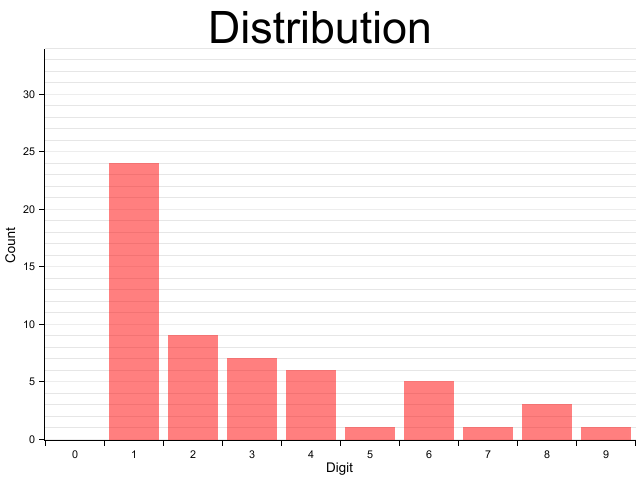
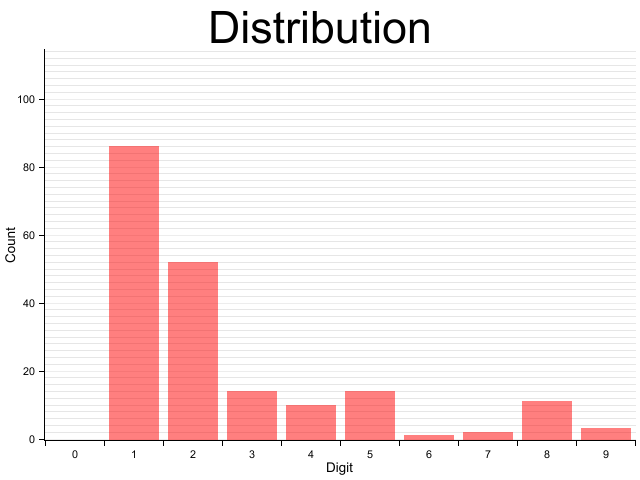
Add the ability to read from csv files for transactions

diff --git a/src/main.rs b/src/main.rs
@@ -1,11 +1,14 @@
+mod data;
+mod graph;
+mod parse;
 
 extern crate clap;
 
 use clap::{App, AppSettings, Arg};
 use std::str::FromStr;
-mod data;
+
 use data::*;
-mod graph;
+
 use graph::*;
 
 //todo Add a way to read values from a csv
@@ -32,6 +35,13 @@ fn main() {
                     .long("size")
                     .default_value("1000")
             )
+            .arg(
+                Arg::with_name("institution")
+                    .short('i')
+                    .long("long")
+                    .possible_values(&["veridian", "silverlake"])
+                    .default_value("veridian")
+            )
         )
         .get_matches();
 
@@ -51,7 +61,8 @@ fn main() {
                 println!("Tallest buildings!!! {:?}", create_graph(data));
             },
             UseCase::Transactions => {
-                let data: Vec<usize> = transaction_amounts().into_iter().map(|x| first_digit(x)).collect();
+                let inst = graph.value_of_t("institution").unwrap_or("veridian".to_string());
+                let data: Vec<usize> = transaction_amounts(inst).into_iter().map(|x| first_digit(x)).collect();
                 println!("transactions {:?}", create_graph(data));
             }
         }

diff --git a/src/parse.rs b/src/parse.rs
@@ -1,0 +1,39 @@
+
+use serde::Deserialize;
+
+#[derive(Debug, Deserialize)]
+struct Transaction{
+
+    #[serde(alias = "Posting Date")]
+    #[serde(alias = "Processed Date")]
+    posting_date: String,
+    #[serde(alias = "Transaction Type")]
+    #[serde(alias = "Credit or Debit")]
+    transaction_type: String,
+    #[serde(alias = "Amount")]
+    amount: f64,
+    #[serde(alias = "Check Number")]
+    check_number: String,
+    #[serde(alias = "Description")]
+    description: String,
+
+}
+
+pub fn pull_transactions_from_csv() -> Vec<f64> {
+
+    let rdr = csv::Reader::from_path("/Users/tjohnson/Documents/ExportedTransactions-revised.csv");
+
+    rdr.unwrap().deserialize().into_iter().map( |t| {
+        let transaction: Transaction = t.unwrap();
+        transaction.amount
+    }).collect()
+}
+pub fn pull_transactions_for_silverlake() -> Vec<f64> {
+
+    let rdr = csv::Reader::from_path("/Users/tjohnson/Downloads/Reg_DDA_0001_Transactions_2020-01-01_2020-08-20.csv");
+
+    rdr.unwrap().deserialize().into_iter().map( |t| {
+        let transaction: Transaction = t.unwrap();
+        transaction.amount
+    }).collect()
+}

diff --git a/src/data.rs b/src/data.rs
@@ -3,6 +3,7 @@ extern crate rand;
 use rand::Rng;
 use std::convert::TryInto;
 use std::str::FromStr;
+use crate::parse::{pull_transactions_from_csv, pull_transactions_for_silverlake};
 
 pub fn gen_random_num_vector(len: isize) -> Vec<isize> {
     let mut rng = rand::thread_rng();
@@ -16,8 +17,10 @@ pub fn tallest_buildings() -> Vec<isize> {
     heights
 }
 
-pub fn transaction_amounts() -> Vec<isize> {
-    vec![1.1].iter().map(|&x| ignore_the_decimal(x)).collect()
+pub fn transaction_amounts(institution: String) -> Vec<isize> {
+
+    let values =  if institution == "veridian" { pull_transactions_from_csv() } else { pull_transactions_for_silverlake()};
+    values.iter().map(|&x| ignore_the_decimal(x)).collect()
 }
 
 fn ignore_the_decimal(num: f64) -> isize {
